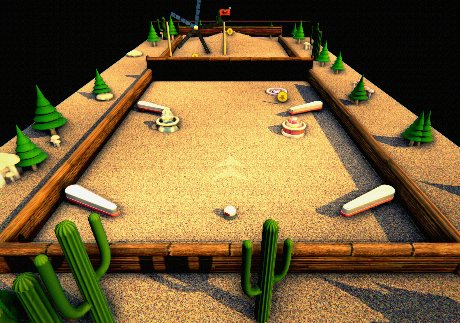
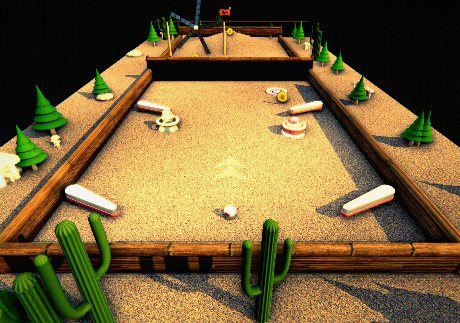
AAA pass 1b: multi-threshold bloom for premium glow (pingolf v380)
Bloom threshold 0.88->0.78 (kept the +0.22 soft knee) + uBloom 0.55->0.62 so golden-hour
speculars on the chrome ball, gold ring and metal actually bleed a premium glow instead of
staying flat. Tightened 0.74->0.78 after a test showed a slightly hot sand bloom — speculars
still glow, sand stays controlled (no blowout, the past failure). Verified: holes beatable,
0 console errors, sand textured not white. Spreadsheet lighting-row after-shot updated.

diff --git a/js/pingolf.js b/js/pingolf.js
@@ -1326,9 +1326,9 @@
       rt.texture.minFilter = T.LinearFilter; rt.texture.generateMipmaps = false;
       var mkRT = function () { var r = new T.WebGLRenderTarget(8, 8); r.texture.minFilter = T.LinearFilter; r.texture.generateMipmaps = false; return r; };
       var b1 = mkRT(), b2 = mkRT(), ldr = mkRT();   // ldr = the composited image, fed to the FXAA pass before it hits the screen
-      var brightM = new T.ShaderMaterial({ vertexShader: vsh, fragmentShader: brightF, uniforms: { tD: { value: rt.texture }, uThresh: { value: 0.88 } }, depthTest: false, depthWrite: false });
+      var brightM = new T.ShaderMaterial({ vertexShader: vsh, fragmentShader: brightF, uniforms: { tD: { value: rt.texture }, uThresh: { value: 0.78 } }, depthTest: false, depthWrite: false });   // AAA: 0.88→0.78 so golden-hour speculars (chrome ball, gold ring, wet-grass sheen) actually BLEED a premium glow; the +0.22 soft knee (brightF) keeps bright sand from blowing to white
       var blurM = new T.ShaderMaterial({ vertexShader: vsh, fragmentShader: blurF, uniforms: { tD: { value: b1.texture }, uDir: { value: new T.Vector2(0, 0) } }, depthTest: false, depthWrite: false });
-      var mat = new T.ShaderMaterial({ vertexShader: vsh, fragmentShader: fsh, uniforms: { tD: { value: rt.texture }, tB: { value: b1.texture }, uT: { value: 0 }, uCA: { value: 0.0026 }, uGrain: { value: 0.13 }, uVig: { value: 0.4 }, uDof: { value: 0 }, uFocus: { value: 0.56 }, uBloom: { value: 0.55 }, uBloomTint: { value: new T.Vector3(1, 1, 1) }, uRes: { value: new T.Vector2(8, 8) }, uSat: { value: 1.14 }, uSep: { value: 0 }, uShad: { value: new T.Vector3(0.9, 0.97, 1.08) }, uHigh: { value: new T.Vector3(1.12, 1.01, 0.82) }, uLo: { value: 0.18 }, uHi: { value: 0.75 }, uCon: { value: 1.16 }, uBright: { value: 0.93 }, uLift: { value: 1 }, uGmAmt: { value: 0 }, uGm0: { value: new T.Vector3(0, 0, 0) }, uGm1: { value: new T.Vector3(0.5, 0.5, 0.5) }, uGm2: { value: new T.Vector3(1, 1, 1) }, uPost: { value: 0 }, uEdge: { value: 0 }, uStyle: { value: 0 }, uScan: { value: 0 }, tAO: { value: null }, uAOAmt: { value: 0.88 }, uAODebug: { value: 0.0 }, uSunScreen: { value: new T.Vector2(0.5, 0.1) }, uGodray: { value: 0.0 } }, depthTest: false, depthWrite: false });
+      var mat = new T.ShaderMaterial({ vertexShader: vsh, fragmentShader: fsh, uniforms: { tD: { value: rt.texture }, tB: { value: b1.texture }, uT: { value: 0 }, uCA: { value: 0.0026 }, uGrain: { value: 0.13 }, uVig: { value: 0.4 }, uDof: { value: 0 }, uFocus: { value: 0.56 }, uBloom: { value: 0.62 }, uBloomTint: { value: new T.Vector3(1, 1, 1) }, uRes: { value: new T.Vector2(8, 8) }, uSat: { value: 1.14 }, uSep: { value: 0 }, uShad: { value: new T.Vector3(0.9, 0.97, 1.08) }, uHigh: { value: new T.Vector3(1.12, 1.01, 0.82) }, uLo: { value: 0.18 }, uHi: { value: 0.75 }, uCon: { value: 1.16 }, uBright: { value: 0.93 }, uLift: { value: 1 }, uGmAmt: { value: 0 }, uGm0: { value: new T.Vector3(0, 0, 0) }, uGm1: { value: new T.Vector3(0.5, 0.5, 0.5) }, uGm2: { value: new T.Vector3(1, 1, 1) }, uPost: { value: 0 }, uEdge: { value: 0 }, uStyle: { value: 0 }, uScan: { value: 0 }, tAO: { value: null }, uAOAmt: { value: 0.88 }, uAODebug: { value: 0.0 }, uSunScreen: { value: new T.Vector2(0.5, 0.1) }, uGodray: { value: 0.0 } }, depthTest: false, depthWrite: false });
       var fxaaM = new T.ShaderMaterial({ vertexShader: vsh, fragmentShader: fxaaF, uniforms: { tD: { value: ldr.texture }, uRes: { value: new T.Vector2(8, 8) } }, depthTest: false, depthWrite: false });
       // SSAO setup: hemisphere kernel + 4x4 rotation noise + half-res AO buffers
       var ssaoKernel = []; for (var ki = 0; ki < 16; ki++) { var kv = new T.Vector3(Math.random() * 2 - 1, Math.random() * 2 - 1, Math.random() * 0.85 + 0.15); kv.normalize(); var ks = ki / 16.0; kv.multiplyScalar(0.12 + 0.88 * ks * ks); ssaoKernel.push(kv); }

diff --git a/GRAPHICS-OVERHAUL.html b/GRAPHICS-OVERHAUL.html
@@ -34,7 +34,7 @@
       <tr>
         <td class="el">Lighting / look (AAA pass)</td>
         <td><img src="gfx-shots/aaa_before.jpg?v=2" alt="look before"><div class="cap">v377 — flat, hazy, washed-out (double tone-map + flood fill)</div></td>
-        <td><img src="gfx-shots/aaa_after.jpg?v=2" alt="look after"><div class="cap">v378 — richer, contrasty, grounded form</div></td>
+        <td><img src="gfx-shots/aaa_after.jpg?v=3" alt="look after"><div class="cap">v380 — richer, contrasty, grounded + premium glow</div></td>
         <td class="changes">Root-cause overhaul (5-agent pipeline audit): (1) the scene was tone-mapped TWICE (GPU ACES + a composite S-curve) = muddy midtones — removed the 2nd curve; (2) key:fill was ~1.5:1 (flood fill killed all form) — crushed fill/hemi/ambient + tamed the fake rim → ~4:1 so every prop has a lit side + shadow side; (3) contact shadows were detached (normalBias 3→1.4) — reattached to object bases; (4) SSAO was invisible (radius 42→90) — now wraps every base/seam; contrast ×1.04→1.12, denser blacks. All "darken + separate", so no blowout/murk.</td>
         <td class="grade g7">4 → 7</td>
         <td class="next">Next for true AAA: chrome ball reflects the world (live cube-probe, not flat sky), multi-octave bloom for premium glow, anisotropic metal. In progress.</td>

diff --git a/game.html b/game.html
@@ -97,7 +97,7 @@
   <script src="vendor/three.min.js"></script>
   <script src="vendor/gifquick.js?v=2"></script>
   <script src="js/net.js?v=15"></script>
-  <script src="js/pingolf.js?v=378"></script>
+  <script src="js/pingolf.js?v=380"></script>
   <script>if('serviceWorker' in navigator){window.addEventListener('load',function(){navigator.serviceWorker.register('sw.js').catch(function(){});});}</script>
 </body>
 </html>
